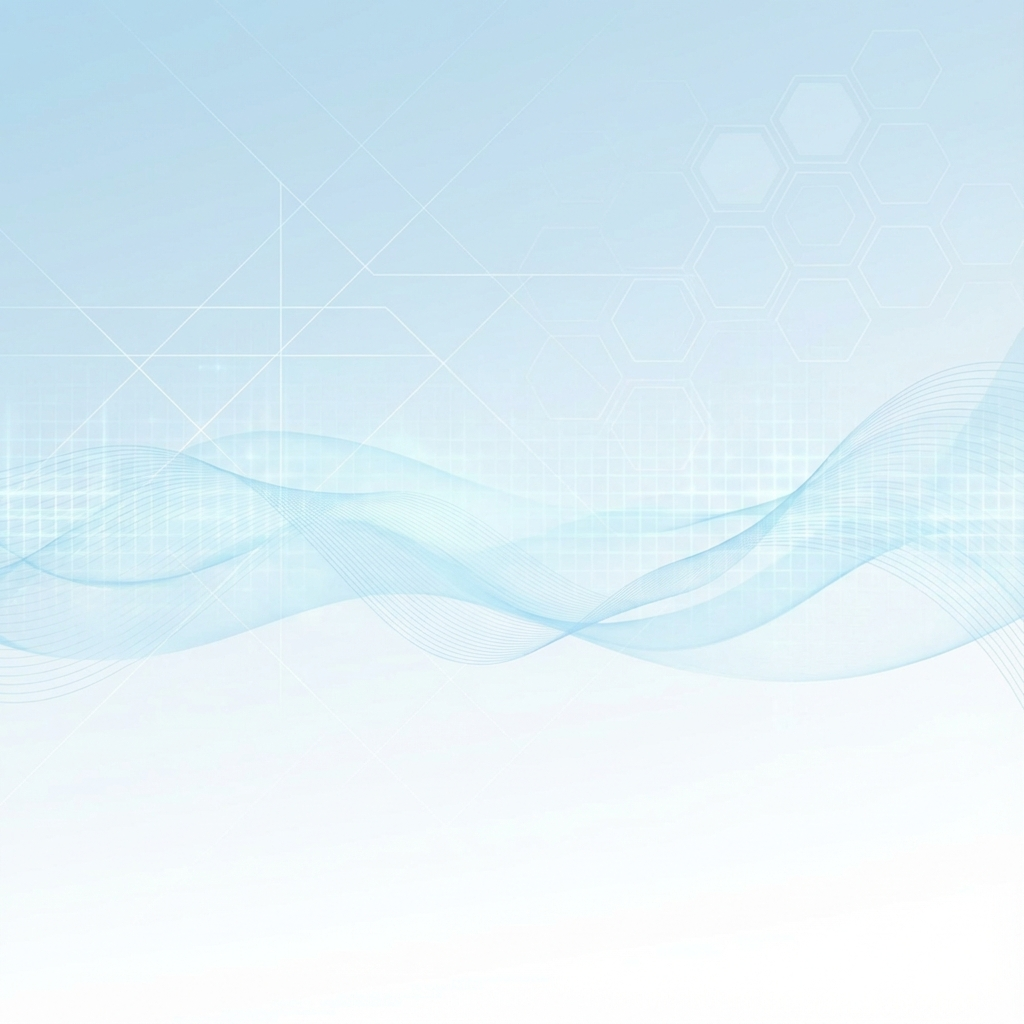
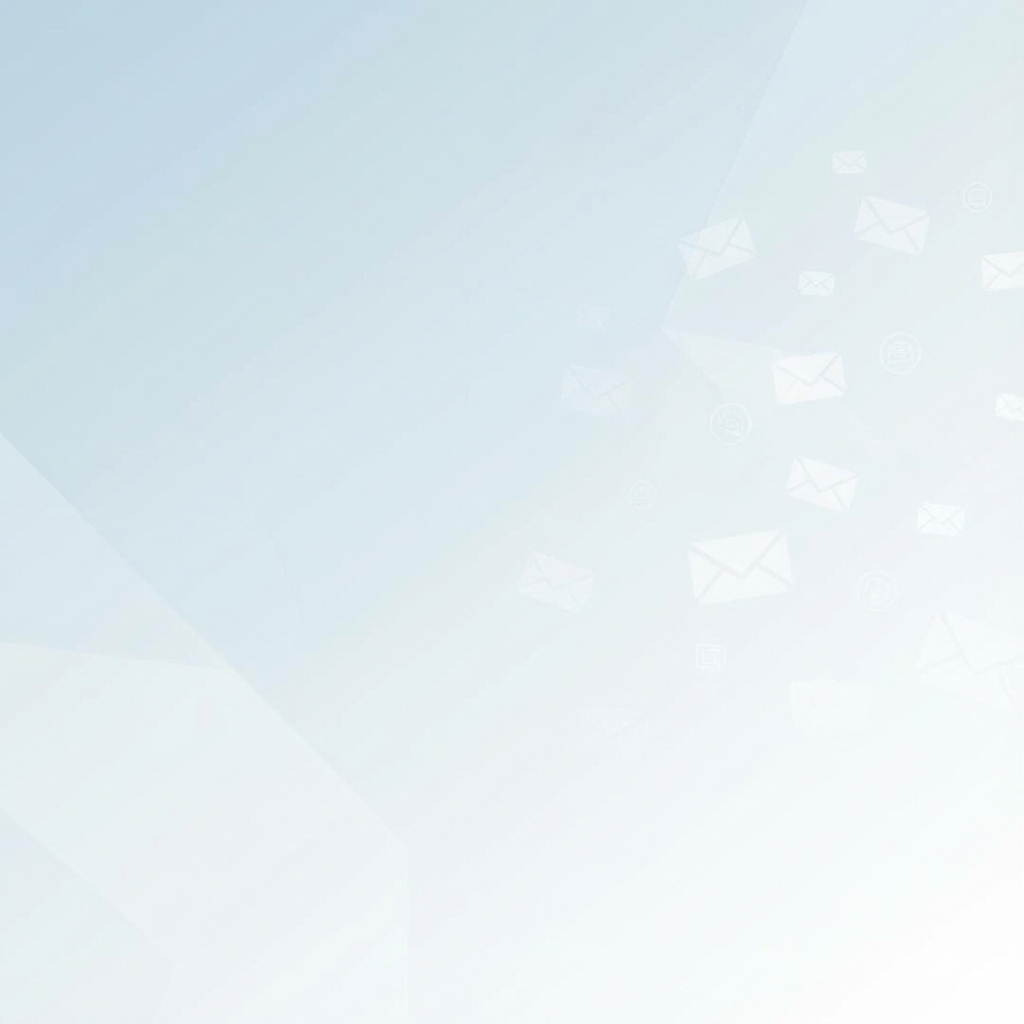
Updated hero images with blue theme and email background

diff --git a/src/pages/Home.tsx b/src/pages/Home.tsx
@@ -61,7 +61,7 @@ const Home = () => {
         {/* Background Image */}
         <div className="absolute inset-0 z-0">
           <img
-            src="/image-removebg-preview.png"
+            src="/hero-bg.png"
             alt="Hero Background"
             className="w-full h-full object-cover opacity-40"
           />
@@ -102,7 +102,7 @@ const Home = () => {
             <div className="relative animate-slide-in-up" style={{ animationDelay: "0.3s" }}>
               <div className="relative z-10">
                 <img
-                  src="/hero-marketing.png"
+                  src="/image-removebg-preview.png"
                   alt="Email Marketing Illustration"
                   className="w-full h-auto drop-shadow-2xl animate-float"
                 />
